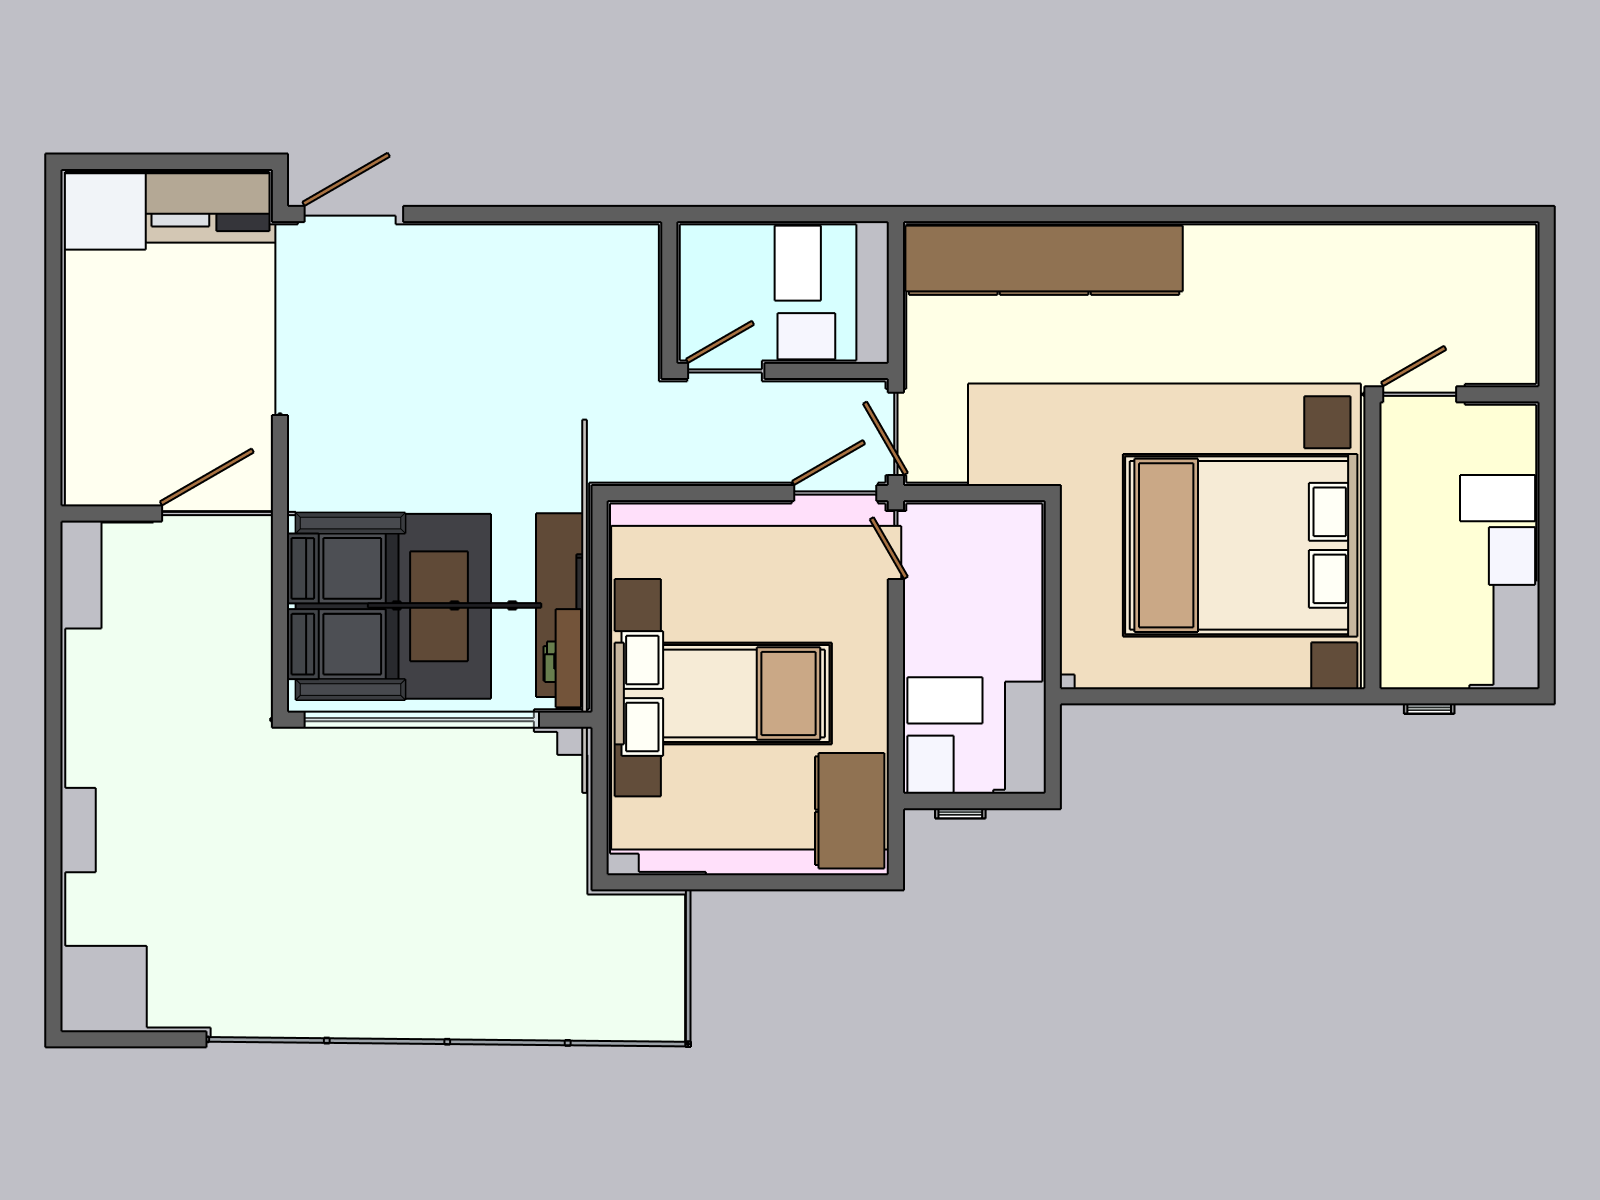
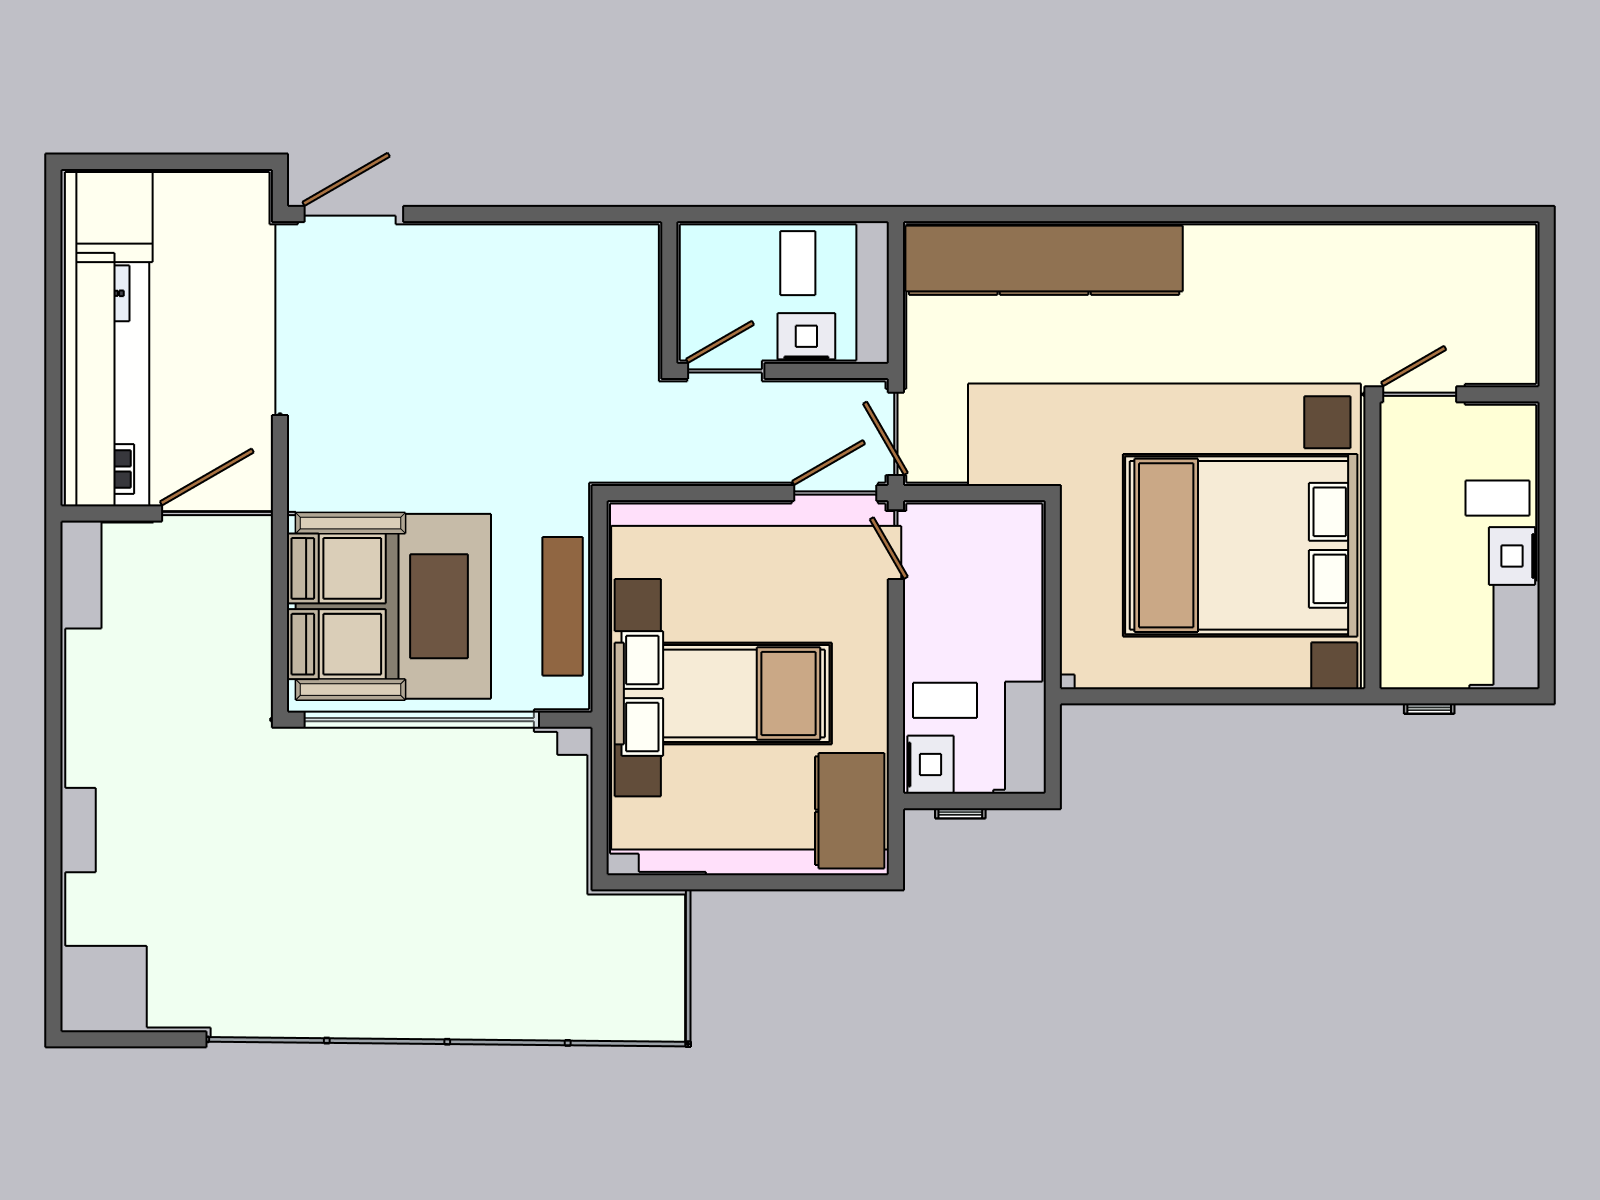
audit(sala): LIVING_ROOM_BASELINE_AUDIT — diagnostico r002 (sem V-Ray/material)
Baseline da sala antes de propagar black_wood_gold. furnish r002 LIVING OK (18 boxes: sofa/mesa-
centro/rack/tapete); gates geometry_sanity+overlap PASS -> geometria valida, problema e LAYOUT.
Achados: rack TV FLUTUANDO no meio (sem parede, #1) · mesa de jantar AUSENTE (lado jantar vazio) ·
sala sub-mobiliada · 'parede concreto' = material de render nao estrutura. Decisoes: ancorar rack na
parede-TV, sofa encarando, jantar perto da cozinha, rack->painel planned_niche. Montagem+gallery servidos.

diff --git a/artifacts/planta_74/furnished/kitchen_angles/sala_baseline.html b/artifacts/planta_74/furnished/kitchen_angles/sala_baseline.html
@@ -1,0 +1,36 @@
+<!doctype html>
+<html lang="pt-BR"><head><meta charset="utf-8"><meta name="viewport" content="width=device-width, initial-scale=1">
+<title>SALA r002 — BASELINE AUDIT</title>
+<style>
+ body{margin:0;background:#16181d;color:#e8e9ec;font:15px/1.5 system-ui,Segoe UI,Arial}
+ header{padding:18px 22px;border-bottom:1px solid #2a2d34;position:sticky;top:0;background:#16181d}
+ h1{margin:0;font-size:18px} .sub{color:#9aa0aa;font-size:13px;margin-top:4px}
+ .wrap{padding:18px 22px;display:grid;gap:22px;grid-template-columns:1fr 360px}
+ @media(max-width:900px){.wrap{grid-template-columns:1fr}}
+ figure{margin:0;background:#1d2026;border:1px solid #2a2d34;border-radius:10px;overflow:hidden}
+ figcaption{padding:9px 13px;font-size:13px;color:#cfd2d8;border-bottom:1px solid #2a2d34;background:#22252c}
+ img{display:block;width:100%;height:auto}
+ .diag{background:#1d2026;border:1px solid #2a2d34;border-radius:10px;padding:14px 16px;font-size:13.5px;align-self:start}
+ .diag h2{font-size:14px;margin:10px 0 4px} .ok{color:#9be3a8} .bad{color:#ff9b9b} .warn{color:#ffd58a}
+ ul{margin:4px 0 0;padding-left:18px} li{margin:3px 0}
+</style></head><body>
+<header><h1>SALA r002 (estar + jantar integrados) — BASELINE AUDIT <span style="color:#9aa0aa">sem V-Ray, sem material</span></h1>
+<div class="sub">Geometria VÁLIDA (gates PASS) — o problema é LAYOUT, não forma. Diagnóstico antes de aplicar black_wood_gold.</div></header>
+<div class="wrap">
+ <div>
+  <figure><figcaption>SALA r002 — crop do top: sofá+tapete (esq) · rack TV FLUTUANDO no meio · lado JANTAR vazio</figcaption>
+   <img src="sala_baseline_top_crop.png"></figure>
+  <figure style="margin-top:18px"><figcaption>Apê inteiro (sala = azul, no contexto) + iso 3D</figcaption>
+   <img src="sala_baseline_montagem.png"></figure>
+ </div>
+ <div class="diag">
+  <h2 class="ok">✅ Aproveitável</h2>
+  <ul><li>Sofá + tapete (cluster de estar)</li><li>Sala grande e bem integrada (estar/jantar/terraço/cozinha)</li><li>Geometria limpa — sem overlap/degenerado</li></ul>
+  <h2 class="bad">❌ Errado / lixo legado</h2>
+  <ul><li><b>Rack TV flutuando no meio</b> — sem parede atrás (#1)</li><li><b>Mesa de jantar AUSENTE</b> — lado jantar vazio</li><li>Sala sub-mobiliada, sem zonas</li><li>"Parede concreto gigante" = material de render, não estrutura</li></ul>
+  <h2 class="warn">🚧 Circulação</h2>
+  <ul><li>Nada bloqueia (gates PASS), mas o rack solto corta o fluxo</li><li>Eixos: sala↔terraço · sala↔cozinha · sala↔quartos</li></ul>
+  <h2>📐 Decisões p/ propagação</h2>
+  <ul><li><b>Parede-TV:</b> ancorar o rack numa parede real</li><li><b>Sofá:</b> encarando a parede-TV + tapete delimitando</li><li><b>Jantar:</b> zona vazia perto da cozinha</li><li><b>Rack → planned_niche:</b> painel de TV na parede (não móvel solto)</li></ul>
+ </div>
+</div></body></html>

diff --git a/artifacts/reference_lab/living_room/LIVING_ROOM_BASELINE_AUDIT.md b/artifacts/reference_lab/living_room/LIVING_ROOM_BASELINE_AUDIT.md
@@ -1,0 +1,45 @@
+# LIVING_ROOM_BASELINE_AUDIT — sala r002 (SALA DE JANTAR | SALA DE ESTAR)
+
+> Diagnóstico do estado ATUAL antes de aplicar black_wood_gold. Sem V-Ray, sem material, sem
+> propagar estética. Fonte: `furnish_apartment.py` (PT_TO_M=0.0259) → 18 boxes, LIVING OK.
+> Evidência: `kitchen_angles/sala_baseline_montagem.png` (top do apê + crop da sala + iso).
+
+## Estado atual (o que o furnish coloca)
+Sala r002 = **estar + jantar integrados**, grande, conectada a terraço (porta de vidro), cozinha
+e quartos. Móveis colocados: **Sofá · Mesa de centro · Rack TV · Tapete** (4 itens).
+Gates: `geometry_sanity` PASS · `furniture_overlap_gate` PASS (3 móveis, 0 sobreposição).
+**→ A geometria é VÁLIDA. O problema é LAYOUT/composição, não erro de forma.**
+
+## ✅ Aproveitável
+- **Sofá + tapete** (cluster de estar) — posição no canto esquerdo é ok como ponto de partida.
+- **A sala é grande e bem integrada** (estar/jantar/terraço/cozinha) — ótimo potencial de zonas.
+- **Geometria limpa** — sem overlap, sem degenerado. A base estrutural está sã.
+
+## ❌ Errado / lixo legado
+1. **Rack TV FLUTUANDO no meio da sala** — não está ancorado em parede nenhuma; é um bloco fino
+   solto no espaço, só "de frente" pro sofá. **#1 problema** (objeto solto, placement não-humanizado).
+2. **Mesa de jantar AUSENTE** — o lado "SALA DE JANTAR" da sala-integrada está **vazio**. O brain
+   tem mesa de jantar mas ela não foi colocada (não achou zona livre / sala apertada no lado jantar).
+3. **Sala sub-mobiliada** — só o cluster de estar no canto; o resto (centro, lado jantar) vazio,
+   sem definição de zonas. Parece grande e oca, não planejada.
+4. **"Parede de concreto gigante"** — NÃO aparece na geometria gray. É material de render
+   (`VRAY_STYLE` industrial concrete), não parede estrutural. Se dominava, é decisão de RENDER a
+   reconsiderar no estilo black_wood_gold — não é problema de forma.
+
+## 🚧 Circulação
+- Nada bloqueia geometricamente (gates PASS). Mas o **rack flutuando no meio interrompe o fluxo**
+  visual. Eixos de circulação: sala↔terraço (porta de vidro, embaixo) · sala↔cozinha · sala↔quartos.
+
+## 📐 Decisões de layout (pra fase de propagação)
+- **Parede-TV:** o rack PRECISA ir pra uma parede REAL. Candidata: parede longa onde o sofá já
+  mira (definir uma parede sólida como parede-TV; provavelmente a de cima ou a oposta ao terraço).
+- **Sofá:** pode ficar no canto esquerdo, mas **orientado encarando a parede-TV** + tapete
+  delimitando a zona de estar (ancorado, não no meio).
+- **Jantar:** na zona vazia (lado direito/inferior, **perto da cozinha** — fecha a integração
+  sala/jantar/cozinha).
+- **Objetos → planned_niche_system:** o rack TV vira **painel de TV planejado na parede** (madeira
+  ripada/preto + nicho, linguagem black_wood_gold), não móvel solto. Possível marcenaria de parede.
+
+## Próximo passo (NÃO agora)
+Depois deste baseline: corrigir forma/layout (ancorar rack na parede-TV, colocar jantar, definir
+zonas) → SÓ DEPOIS aplicar black_wood_gold → flat 5 ângulos → GPT critique → V-Ray hero → Felipe PASS.